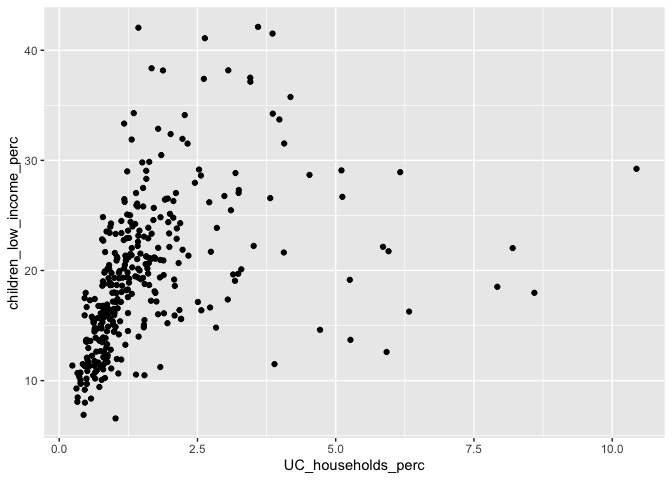
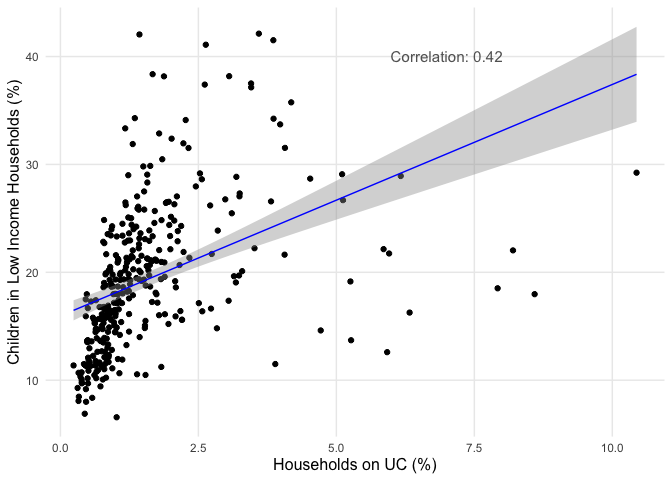
knitted rmd

diff --git a/README.md b/README.md
@@ -227,8 +227,22 @@ across local authorities (2017)**
     uc_children_2017_df <- uc_children_df |>
       filter(year == 2017)
 
+    cor_value <- round(cor(uc_children_2017_df$UC_households_perc, uc_children_2017_df$children_low_income_perc),2)
+
     ggplot(uc_children_2017_df, aes(x = UC_households_perc, y = children_low_income_perc)) +
-      geom_point()
+      geom_point() +
+      geom_smooth(method = "lm", color = "blue", linewidth = 0.5) +
+      labs(x = "Households on UC (%)", 
+           y = "Children in Low Income Households (%)") +
+      annotate("text", x=7, y=40, label = paste("Correlation:", cor_value), size = 4, colour = "#636363") +
+      theme_minimal()+
+      theme(
+        legend.position = "none",
+        panel.grid.minor = element_blank(),
+        axis.title = element_text(size = 12)
+      )
+
+    ## `geom_smooth()` using formula = 'y ~ x'
 
 ![](README_files/figure-markdown_strict/unnamed-chunk-3-1.png)
 
@@ -243,7 +257,9 @@ be driven by underlying characteristics of the local authorities.
 
 A first baseline fixed effects (time and space) model allows to explore
 whether this relationship remains even after controlling for
-time-invariant local authority characteristics and time trends.
+time-invariant local authority characteristics and time trends. In a
+second model, we add a time-varying local authority level control:
+unemployment rate.
 
 *Note: Standard errors are clustered for repeated observations within
 local authorities.*
@@ -292,21 +308,10 @@ The results of this first model show that for every 1 percentage point
 increase in households receiving UC, there is a 0.315 percentage point
 increase in the proportion of children living in low income families.
 This relationship is statistically significant at all conventional
-thresholds.
-
-**Important notes**:
-
-1.  The key assumption needed for a valid estimation of a causal effect
-    with this fixed-effects model is the parallel trends assumption.
-    That is, local authorities which have **not** displayed an increase
-    in UC caseload would have seen the same change in the proportion of
-    children living in low income families as local authorities which
-    have indeed displayed an increase in proportion of households on UC.
-    This assumption needs to be studied further.
-2.  It would be benefiticial to control for potentially time varying
-    local authority characteristics such as unemployment. This would
-    make the parallel trends assumption more plausible. More data
-    collection is necessary for that.
+thresholds. This estimate is not strongly affected, neither in its scale
+nor in its statistical significance when controlling for unemployment
+rates. This finding reinforces the claim that the parallel trends
+assumption more plausible is this situation.
 
 #### Adding an interaction term with duration of rollout
 
@@ -318,7 +323,7 @@ local authority. This is calculating for each year by doing:
 
     # Join the first active date with main dataset & calculate number of months UC 
     # has been active by the end of each year
-    uc_children_16_20_new_df <- uc_children_16_20_df |> 
+    uc_children_16_20_interaction_df <- uc_children_16_20_df |> 
       left_join(uc_first_active_month, by = "ltla21_code") |> 
       mutate(
         months_active = ifelse(
@@ -337,46 +342,81 @@ the effect of the UC rollout is moderated by the number of months
 Universal Credit has been active in the local authority. Standard errors
 are still clustered by local authority.
 
-    uc_children_cont_fem_interaction <- 
-      feols(data = uc_children_16_20_new_df, 
-            children_low_income_perc ~ UC_households_perc * years_active | ltla21_code + year,
+    uc_children_FE_interaction <- 
+      feols(data = uc_children_16_20_interaction_df, 
+            children_low_income_perc ~ UC_households_perc * years_active + unemployment_perc | ltla21_code + year,
             cluster = ~ltla21_code)
 
     ## NOTE: 15 observations removed because of NA values (RHS: 15).
 
-    summary(uc_children_cont_fem_interaction)
+    summary(uc_children_FE_interaction)
 
     ## OLS estimation, Dep. Var.: children_low_income_perc
     ## Observations: 1,685 
     ## Fixed-effects: ltla21_code: 337,  year: 5
     ## Standard-errors: Clustered (ltla21_code) 
-    ##                                  Estimate Std. Error  t value   Pr(>|t|)    
-    ## UC_households_perc               0.374370   0.053312  7.02229 1.2159e-11 ***
-    ## years_active                    -1.129433   0.196394 -5.75084 1.9970e-08 ***
-    ## UC_households_perc:years_active  0.016429   0.012375  1.32762 1.8521e-01    
+    ##                                  Estimate Std. Error   t value   Pr(>|t|)    
+    ## UC_households_perc               0.340482   0.051203  6.649693 1.1908e-10 ***
+    ## years_active                    -0.900931   0.187594 -4.802560 2.3633e-06 ***
+    ## unemployment_perc               -0.774729   0.087033 -8.901537  < 2.2e-16 ***
+    ## UC_households_perc:years_active  0.011472   0.012754  0.899449 3.6906e-01    
     ## ---
     ## Signif. codes:  0 '***' 0.001 '**' 0.01 '*' 0.05 '.' 0.1 ' ' 1
-    ## RMSE: 1.20071     Adj. R2: 0.966301
-    ##                 Within R2: 0.158035
+    ## RMSE: 1.15132     Adj. R2: 0.968993
+    ##                 Within R2: 0.225875
 
-We can visualise change in the increase in the proportion of children in
-low income families for every 1ppt increase in the proportion of
-households on UC, using the interaction term:
+We can visualise the marginal effects of the interaction (change in the
+increase in the proportion of children in low income families for every
+1ppt increase in the proportion of households on UC), using the
+interaction term:
 
     # Extract coefficients
-    beta_1 <- coef(uc_children_cont_fem_interaction)["UC_households_perc"]
-    beta_3 <- coef(uc_children_cont_fem_interaction)["UC_households_perc:years_active"]
-    # Extract standard errors
-    se_beta_1 <- se(uc_children_cont_fem_interaction)["UC_households_perc"]
-    se_beta_3 <- se(uc_children_cont_fem_interaction)["UC_households_perc:years_active"]
+    beta_1 <- coef(uc_children_FE_interaction)["UC_households_perc"]
+    beta_3 <- coef(uc_children_FE_interaction)["UC_households_perc:years_active"]
 
-    # Create a sequence of 'years_active' values: max is 5 years in the data
-    years_active <- 0:5
+    # For confidence interval:
+    # Compute variance of the marginal effect of "proportion of households on UC"
+    # Marginal effect: b1 + b3.Years
+    # var(aX + bY) = a^2.var(X) + b^2.var(Y) + 2ab.cov(X.Y)
+    # In our case: var(β1 + β3.Years) = var(β1) + Years^2.var(β3) + 2.Years.cov(β1.β3)
 
-    # Compute the marginal effect for each year
-    marginal_effects <- beta_1 + (beta_3 * years_active)
+    # Extract variances
+    # Get the variance-covariance matrix of the model's estimates
+    vcov_matrix <- vcov(uc_children_FE_interaction)
 
-    # HOW TO COMPUTE CONFIDENCE INTERVAL OF MARGINAL EFFECTS?
+    var_beta_1 <- vcov_matrix["UC_households_perc", "UC_households_perc"]
+    var_beta_3 <- vcov_matrix["UC_households_perc:years_active", "UC_households_perc:years_active"]
+    cov_beta_1_beta_3 <- vcov_matrix["UC_households_perc", "UC_households_perc:years_active"]
+
+    # Build the dataset (95% confidence interval)
+    interaction_visualisation <-
+      tibble(
+        Year = 0:5,
+        Marginal_Effect = beta_1 + (beta_3 * Year),
+        Variance = var_beta_1 + Year^2 * var_beta_3 + 2 * Year * cov_beta_1_beta_3,
+        CI_lower = Marginal_Effect - 1.96 * sqrt(Variance),
+        CI_upper = Marginal_Effect + 1.96 * sqrt(Variance)
+      )
+
+    # Visualise
+    ggplot(interaction_visualisation, aes(x = Year, y = Marginal_Effect)) +
+      geom_line() +
+      geom_point() +
+      geom_errorbar(aes(ymin = CI_lower, ymax = CI_upper), width = 0.1) +
+      theme_minimal() + # This sets a minimal theme for the plot
+      labs(
+        x = "Number of years UC has been active in the local authority",
+        y = "Change in proportion of children in poverty for every year's increase in UC"
+      ) +
+      annotate("text", x = 1, y = 0.48, label = paste("Interaction estimate:", round(beta_3, 3)), size = 5, colour = "#636363") +
+      theme_minimal() +
+      theme(
+        legend.position = "none",
+        panel.grid.minor = element_blank(),
+        axis.title = element_text(size = 13)
+      )
+
+![](README_files/figure-markdown_strict/unnamed-chunk-7-1.png)
 
 ### Fixed-Effects Model - Binary Independent Variable (UC Full Service Rollout) (// Hardie, 2023)
 
@@ -465,58 +505,3 @@ families within local authorities. The implications of this finding are
 difficult to flesh out because of the potential measurement issues
 emerging from the difference in measurement frequency between the
 independent variable and outcome.
-
-### Add time-varying controls to fixed-effects model
-
--   Research on drivers of child poverty needed
-    -   unemployment rate
-    -   nth percentile of wages
-
-### Fixed-Effects Model - Categorical Variable: Long-term effects of UC Full Service Rollout
-
--   How to count number of months from rollout to reference year
-    -   e.g. FYE 2018 (April 2017 - March 2018): if UC has been rolled
-        out in December 2016, how many months are counted for FYE 2018?
-
-### Scottish Child Payment
-
-“On 15 February 2021 we introduced the Scottish Child Payment for
-low-income families with children under six as part of our work on
-tackling child poverty. It was initially set at a rate of £10 per week
-per child with no limit to the number of eligible children.
-
-In March 2022 we published “Best Start, Bright Futures: tackling child
-poverty delivery plan 2022 to 2026” in which we committed to doubling
-the value of the Scottish Child Payment from April 2022, delivering the
-benefit in full to all eligible children under the age of 16 and further
-increasing the value to £25 per child, per week, by the end of 2022.
-These commitments were delivered on 14 November 2022.”
-(<https://www.gov.scot/policies/social-security/scottish-child-payment/>)
-
--   MSOA level children living in low income families for Scotland and
-    England
-    -   difference in differences for pre-2021 and 2021-2022
-    -   with matching on UC takeup, unemployment & pre-treatment outcome
-
-### Two-Child Limit in Universal Credit
-
--   Households with a third or subsequent child born from 6 April 2017
-    claiming Universal Credit or Child Tax Credit no longer receive
-    additional amounts for these children. The policy only applies to
-    children born from 6 April 2017, so not all families with a third or
-    subsequent child claiming Universal Credit will be affected until
-    the mid-2030s. In April 2023, the two-child limit affected 422,000
-    (55%) of the 772,000 families with three or more children claiming
-    Universal Credit or Child Tax Credit. 22,000 households had an
-    exception.
-
--   Initial results: Relative poverty among families with three or more
-    children, which has been rising since 2013, has continued to
-    increase since April 2017. The Government points to falling absolute
-    poverty over the period and questions the use of relative poverty
-    measures.
-
--   More research needed (Patrick et al, 2023)
-
--   Possibility of quasi-experimental research? Data on number of
-    children living in low income by age available.
